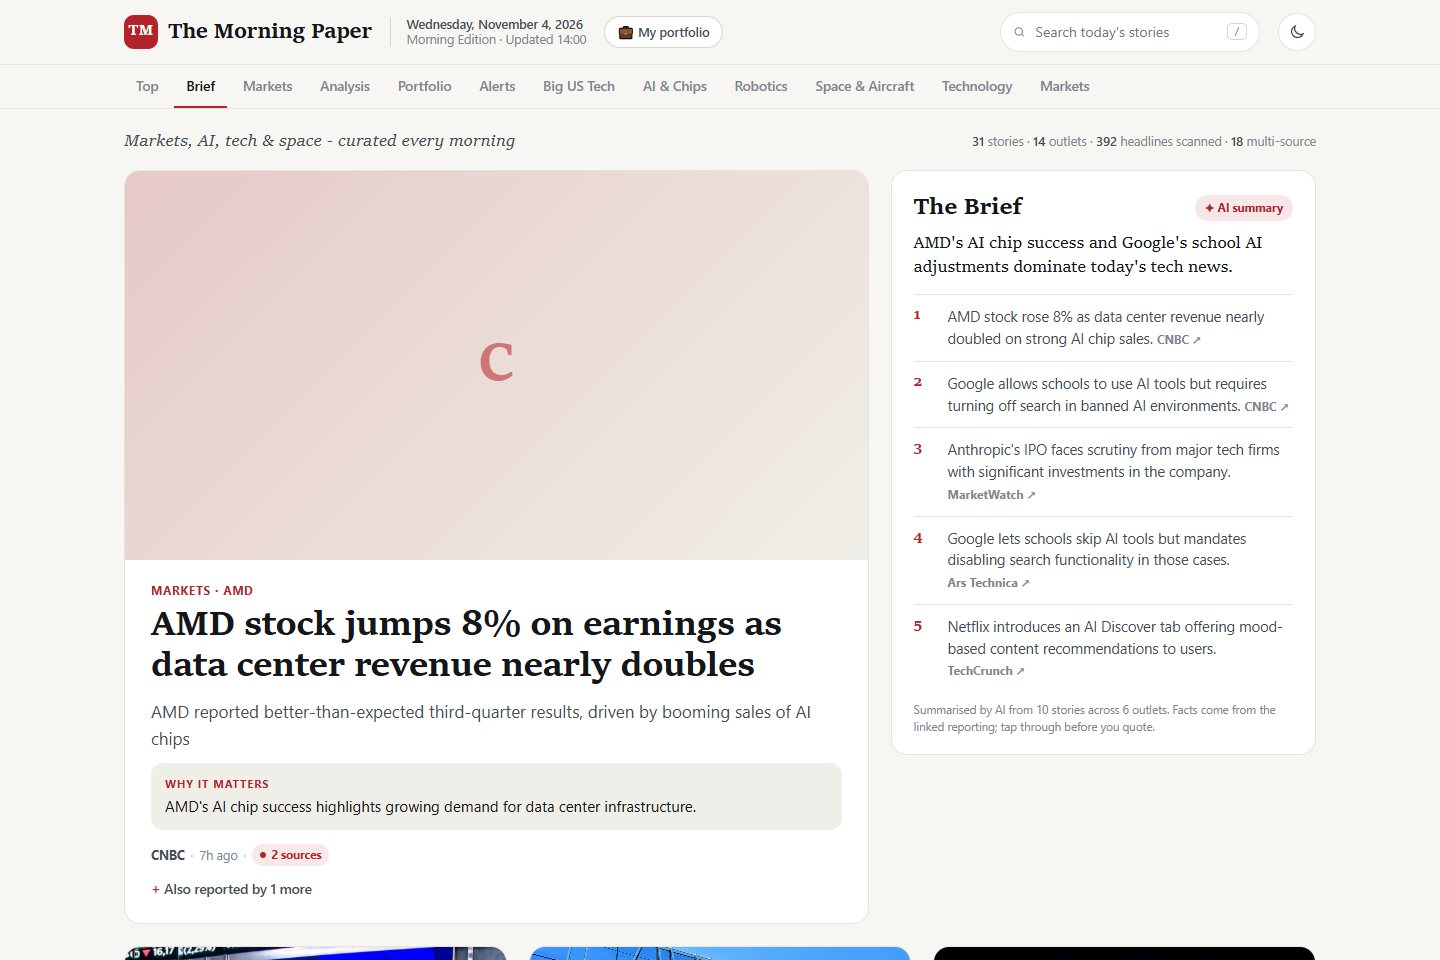
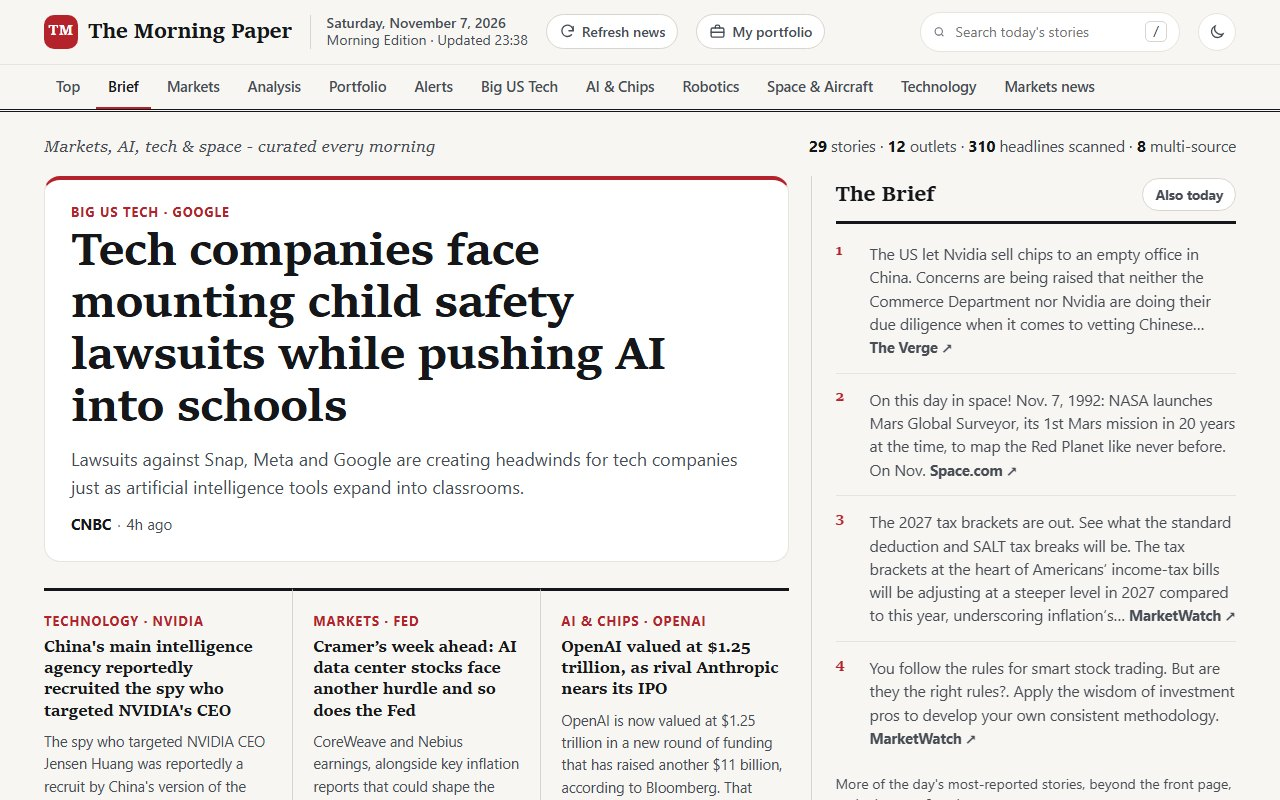
Morning Paper landing: sync red brand, accurate Brief copy, fresh screenshot

diff --git a/p/morning-paper/index.html b/p/morning-paper/index.html
@@ -20,7 +20,7 @@
 <link href="https://fonts.googleapis.com/css2?family=Playfair+Display:ital,wght@0,700;0,900;1,700&display=swap" rel="stylesheet">
 <style>
 :root {
-  --accent: #b45309; --accent-soft: #fcebdf; --accent-ink: #723303;
+  --accent: #b4232c; --accent-soft: #f8e6e7; --accent-ink: #7f1d1d;
   --paper: #fffaf3; --ink: #1f2330; --muted: #5d6273; --line: #ece4d6; --card: #fff; --dark: #1f2330;
 }
 
@@ -569,7 +569,7 @@ html.dna.dna.dna { --fd: "Playfair Display", var(--fd-fallback); --fdw: 900; --f
   <section class="block alt wrap reveal" id="features">
     <div class="kicker">What's inside</div>
     <h2>Sections in this paper.</h2>
-    <div class="bento"><article class="cell wide dark"><h3>Curated news</h3><p>Refreshed through the day, with stories you already saw in earlier editions skipped.</p></article><article class="cell"><h3>An AI brief on top</h3><p>The day&#x27;s essentials first, then a “why it matters” line on every story.</p></article><article class="cell"><h3>Stock desk</h3><p>Forward P/E, quality and valuation scores, and live prices with intraday charts, for big US tech and Indonesian blue chips.</p></article><article class="cell accent"><h3>Portfolio on every device</h3><p>Sign in once and your holdings and alerts follow you to your phone, laptop and work PC.</p></article><article class="cell"><h3>Price alerts</h3><p>Above/below, support breaks and SMA-200 crosses.</p></article><article class="cell"><h3>Installable</h3><p>Add it to your home screen and it behaves like an app.</p></article></div>
+    <div class="bento"><article class="cell wide dark"><h3>Curated news</h3><p>Refreshed through the day, with stories you already saw in earlier editions skipped.</p></article><article class="cell"><h3>The Brief on top</h3><p>Five things to know, written by a local model when one is running; otherwise the top headlines, so the paper always builds.</p></article><article class="cell"><h3>Merged coverage</h3><p>When several outlets report the same story it appears once, ranked higher, with the other outlets one tap away.</p></article><article class="cell accent"><h3>Stock desk</h3><p>Forward P/E, quality and valuation scores, and live prices with intraday charts, for big US tech and Indonesian blue chips.</p></article><article class="cell"><h3>Price alerts</h3><p>Above/below, support breaks and SMA-200 crosses.</p></article><article class="cell"><h3>Installable</h3><p>Add it to your home screen and it behaves like an app.</p></article></div>
   </section>
   <section class="block wrap reveal" id="hood">
     <div class="kicker">Under the hood</div>
